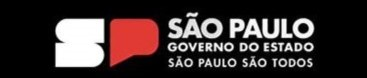
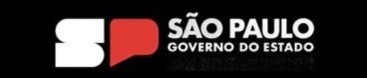
...

Changed region(s): [[0.4496, 0.7179, 0.8692, 0.8718]]

diff --git a/ferramentas/maps.html b/ferramentas/maps.html
@@ -13,7 +13,7 @@
     <header>
         <div style="height: 200%; display: flex; align-items: center; justify-content: space-between; flex-wrap: wrap;"
             aria-label="Logo de São Paulo">
-            <img src="..\Assets\baixados.jpg" alt="logo do estado de São Paulo" class="Logo" style="width: 30%;">
+            <img src="..\Assets\baixados.jpg" alt="logo do estado de São Paulo" class="Logo" style="width: 25%;">
         </div>
         <div style="display: flex; justify-content: center;" aria-label="E.M.T.U"><img
                 style="border: none; margin: 10px;" src="..\Assets\emtu-logo.png" alt="logo da E.M.T.U" class="Logo">
@@ -28,12 +28,17 @@
         </div>
         </div>
     </header>
+
+    <div style="cursor: pointer; display: flex; position: fixed; right: 0%; top: 50%;padding: 5px; margin: 10px; background-color: rgb(0, 97, 165); border-radius: 10px; z-index: 100; border: none; background: linear-gradient(to top right, rgb(199, 210, 222), rgb(0, 97, 165));"><svg xmlns="http://www.w3.org/2000/svg" width="36" height="32" viewBox="0 0 576 512"><path fill="white" d="m544 160l-.1 72.6c-.1 52.2-24 101-64 133.1c.1-1.9.1-3.8.1-5.7v-8c0-71.8-37-138.6-97.9-176.7l-60.2-37.6c-8.6-5.4-17.9-8.4-27.3-9.4l-45.9-79.5c-6.6-11.5-2.7-26.2 8.8-32.8s26.2-2.7 32.8 8.8l78 135.1c3.3 5.7 10.7 7.7 16.4 4.4s7.7-10.7 4.4-16.4l-62-107.4c-6.6-11.5-2.7-26.2 8.8-32.8S362 5 368.6 16.5l68 117.8l43.3 75l.1-49.3c0-17.7 14.4-32 32-32s32 14.4 32 32M243.9 88.5l24.6 42.5c-13.9 4.5-26.4 13.7-34.7 27c-.9 1.4-1.7 2.9-2.5 4.4l-28.9-50c-6.6-11.5-2.7-26.2 8.8-32.8s26.2-2.7 32.8 8.8zm-46.4 63.7l26.8 46.4c.6 6 2.1 11.8 4.3 17.4H179l-23-39.8c-6.6-11.5-2.7-26.2 8.8-32.8s26.2-2.7 32.8 8.8zm63.4 22.8c9.4-15 29.1-19.5 44.1-10.2l60.2 37.6C416.7 234.7 448 291.2 448 352v8c0 83.9-68.1 152-152 152H120c-13.3 0-24-10.7-24-24s10.7-24 24-24h92c6.6 0 12-5.4 12-12s-5.4-12-12-12H88c-13.3 0-24-10.7-24-24s10.7-24 24-24h124c6.6 0 12-5.4 12-12s-5.4-12-12-12H56c-13.3 0-24-10.7-24-24s10.7-24 24-24h156c6.6 0 12-5.4 12-12s-5.4-12-12-12H88c-13.3 0-24-10.7-24-24s10.7-24 24-24h229.2L271 219.1c-15-9.4-19.5-29.1-10.2-44.1z"/></svg></div>
+
     <div style="justify-content: center; display: flex; flex-direction: column; padding: 10px 15px;">
 
         <div style="display: flex; height: 200px;">
-            <button class="next" aria-label="anterior">&lt;</button>
+            
+            <button class="next" aria-label="anterior"><svg xmlns="http://www.w3.org/2000/svg" width="18" height="32" viewBox="0 0 9 16"><path fill="white" d="m1.38 7.18l4.83-4.15c.7-.6 1.79-.1 1.79.82v8.29c0 .93-1.09 1.42-1.79.82L1.38 8.82c-.5-.43-.5-1.21 0-1.64"/></svg></button>
             <div style="width: 100%;"></div>
-            <button class="next" aria-label="próximo">&gt;</button>
+            <button class="next" aria-label="próximo"><svg xmlns="http://www.w3.org/2000/svg" width="18" height="32" viewBox="0 0 9 16"><path fill="white" d="M7.62 7.18L2.79 3.03c-.7-.6-1.79-.1-1.79.82v8.29c0 .93 1.09 1.42 1.79.82l4.83-4.14c.5-.43.5-1.21 0-1.64"/></svg></button>
+
         </div>
 
         <div id="search"
@@ -85,7 +90,7 @@
             <div style="display: flex; flex-direction: row;">
                 <div style="display: flex; width: 100%; flex-wrap: wrap;">
                     <select name="linha" id="imageSelector" onchange="changeImage()"
-                        style="height: 25px; justify-self: right; width: 30%;">
+                        style="height: 25px; justify-self: right; width: 30%; border-radius: 5px;">
                         <option
                             value="https://www.google.com/maps/d/u/0/embed?mid=1T5g7Uz8AfBe5P65qFLAo5pEMC34Ti-0&ehbc=2E312F&noprof=1">
                             Mapa Geral</option>
@@ -108,7 +113,7 @@
                         <iframe
                             src="https://www.google.com/maps/d/u/0/embed?mid=1T5g7Uz8AfBe5P65qFLAo5pEMC34Ti-0&ehbc=2E312F&noprof=1"
                             id="displayImage"
-                            style="border: 0; position: relative; top: -50px; left: 0; width: 100%; height: 600px;">
+                            style="border: none; position: relative; top: -50px; left: 0; width: 100%; height: 600px;;">
                         </iframe>
                     </div>
                 </div>
@@ -140,7 +145,7 @@
                         <td>[...]</td>
                         <td>[...]</td>
                     </tr>
-                    <!-- Continue com as linhas restantes -->
+
                 </tbody>
             </table>
         </div>
@@ -148,18 +153,42 @@
         </div>
 
         <footer>
-            <div style="height: 40px; justify-content: right; display: flex; background-color: red;">
-                
+
+            <div style="display: flex; padding: 5px; flex-wrap: wrap; padding-right: 100px;">
+                <p class="footerText">Home</p>
+                <p class="footerText">Institucional</p>
+                <p class="footerText">Itinerários e Tarifas</p>
+                <p class="footerText">Redes de Transporte</p>
+                <p class="footerText">Bilhetes e Cartões</p>
+                <p class="footerText">Serviços</p>
+                <p class="footerText">Licitações</p>
+                <p class="footerText">Imprensa</p>
+                <p class="footerText">Parceiros</p>
+                <p class="footerText">Legislação</p>
+                <p class="footerText">Ouvidoria EMTU</p>
+                <p class="footerText">Fale Conosco</p>
+                <p class="footerText">Código de Conduta e Integridade</p>
+                <p class="footerText">Canal de Denúncia</p>
+                <p class="footerText">Serviço de Informação ao Cidadão</p>
+                <p class="footerText">Audiências Públicas</p>
+                <p class="footerText">LGPD</p>
+                <p class="footerText">Intranet</p>
             </div>
 
-            <div style="display: flex; justify-content: space-evenly; padding: 10px;">
-                <button class="footerbtn"></button>
-                <button class="footerbtn"></button>
-                <button class="footerbtn"></button>
+            <div style="height: 45px; justify-content: space-evenly; display: flex; background-color: red; align-items: end; padding-bottom: 3px;">
+                <div style="border:none; display: flex; flex-direction: row; align-items: center;"><svg xmlns="http://www.w3.org/2000/svg" width="16" height="16" viewBox="0 0 16 16"><path fill="white" d="M5.026 15c6.038 0 9.341-5.003 9.341-9.334q.002-.211-.006-.422A6.7 6.7 0 0 0 16 3.542a6.7 6.7 0 0 1-1.889.518a3.3 3.3 0 0 0 1.447-1.817a6.5 6.5 0 0 1-2.087.793A3.286 3.286 0 0 0 7.875 6.03a9.32 9.32 0 0 1-6.767-3.429a3.29 3.29 0 0 0 1.018 4.382A3.3 3.3 0 0 1 .64 6.575v.045a3.29 3.29 0 0 0 2.632 3.218a3.2 3.2 0 0 1-.865.115a3 3 0 0 1-.614-.057a3.28 3.28 0 0 0 3.067 2.277A6.6 6.6 0 0 1 .78 13.58a6 6 0 0 1-.78-.045A9.34 9.34 0 0 0 5.026 15"/></svg><p style="color: white; font-weight: 500;">emtu_oficial</p></div>
+                <div style="border:none; display: flex; flex-direction: row; align-items: center;"><svg xmlns="http://www.w3.org/2000/svg" width="16" height="16" viewBox="0 0 16 16"><path fill="white" d="M8 5.67C6.71 5.67 5.67 6.72 5.67 8S6.72 10.33 8 10.33S10.33 9.28 10.33 8S9.28 5.67 8 5.67M15 8c0-.97 0-1.92-.05-2.89c-.05-1.12-.31-2.12-1.13-2.93c-.82-.82-1.81-1.08-2.93-1.13C9.92 1 8.97 1 8 1s-1.92 0-2.89.05c-1.12.05-2.12.31-2.93 1.13C1.36 3 1.1 3.99 1.05 5.11C1 6.08 1 7.03 1 8s0 1.92.05 2.89c.05 1.12.31 2.12 1.13 2.93c.82.82 1.81 1.08 2.93 1.13C6.08 15 7.03 15 8 15s1.92 0 2.89-.05c1.12-.05 2.12-.31 2.93-1.13c.82-.82 1.08-1.81 1.13-2.93c.06-.96.05-1.92.05-2.89m-7 3.59c-1.99 0-3.59-1.6-3.59-3.59S6.01 4.41 8 4.41s3.59 1.6 3.59 3.59s-1.6 3.59-3.59 3.59m3.74-6.49c-.46 0-.84-.37-.84-.84s.37-.84.84-.84s.84.37.84.84a.8.8 0 0 1-.24.59a.8.8 0 0 1-.59.24Z"/></svg><p style="color: white; font-weight: 500;">emtu.oficial</p></div>
+                <div style="border:none; display: flex; flex-direction: row; align-items: center;"><svg xmlns="http://www.w3.org/2000/svg" width="18.29" height="16" viewBox="0 0 16 14"><path fill="white" d="M8 1.5c-6.88 0-7 .62-7 5.5s.12 5.5 7 5.5s7-.62 7-5.5s-.12-5.5-7-5.5m2.24 5.74L7.1 8.74c-.28.13-.5-.02-.5-.33V5.59c0-.31.23-.46.5-.33l3.14 1.5c.28.13.28.35 0 .48"/></svg><p style="color: white; font-weight: 500;">emtu.oficial</p></div>
             </div>
 
-            <div style="background-color: rgb(37, 37, 86); height: 170px;">
-                <div style="border: 1px solid white; height: 40px;"></div>
+            <div style="display: flex; justify-content: space-evenly; padding: 10px; flex-wrap: wrap;">
+                <button class="footerbtn">Ouvidoria</button>
+                <button class="footerbtn">Transparência</button>
+                <button class="footerbtn">SIC</button>
+            </div>
+
+            <div style="background-color: black; height: 160px; display: flex; align-items: center; justify-content: center;">
+                <div><img src="..\Assets\baixados.jpg" alt="logo estado de são paulo" style="width: 75%;  margin-left: 15%;"></div>
             </div>
         </footer>
         
@@ -170,13 +199,11 @@
                 const image = document.getElementById('displayImage');
                 image.src = selector.value;
 
-                // Atualiza a URL com o valor selecionado
                 const url = new URL(window.location);
-                url.searchParams.set('map', selector.value);  // Adiciona/atualiza o parâmetro "map"
-                window.history.pushState({}, '', url);  // Atualiza a URL sem recarregar a página
+                url.searchParams.set('map', selector.value);  
+                window.history.pushState({}, '', url);  
             }
 
-            // Função para carregar a configuração inicial a partir da URL
             function loadMapFromURL() {
                 const urlParams = new URLSearchParams(window.location.search);
                 const mapParam = urlParams.get('map');
@@ -185,11 +212,10 @@
                     const selector = document.getElementById('imageSelector');
                     selector.value = mapParam;
                     const image = document.getElementById('displayImage');
-                    image.src = mapParam;  // Carrega o mapa selecionado da URL
+                    image.src = mapParam; 
                 }
             }
 
-            // Carregar o mapa ao carregar a página
             window.onload = loadMapFromURL;
         </script>
 

diff --git a/style.css b/style.css
@@ -23,6 +23,7 @@ body, html{
     font-weight: bolder;
     color: white;
     border: none;
+    cursor: pointer;
 }
 
 svg{
@@ -56,6 +57,7 @@ h6{
     color: transparent;
     font-size: 30px;
     font-weight: bolder;
+    
 }
 
 .next:hover{
@@ -77,11 +79,12 @@ h6{
 .cards{
     text-justify: center;
     width: 25%;
-    height: 40%;
+    height: 70px;
     padding: 15px;
     margin: 10px 0;
-        
-
+    border: none;
+    border-radius: 10px;
+    background-color: rgb(0, 97, 165);
 }
 
 .cards:hover{
@@ -89,24 +92,45 @@ h6{
 }
 
 .footerbtn{
-    height: 30px;
+    height: 35px;
     background-color: rgb(37, 37, 86);
     border-radius: 50px;
-    width: 25%;
+    width: 200px;
     margin: 5px;
+    color: white;
+    font-size: 100%;
 }
 
 .footerbtn:hover{
     background-color: rgba(37, 37, 86, 0.8);
+    cursor: pointer;
 }
 
 .Logo{
     display: flex;
     position: relative;
-    width: 15%;
+    width: 12%;
     margin: 0;
 }
 
 svg{
     margin: 2px;
+}
+
+p{
+    border: none;
+}
+
+.footerText{
+    display: flex;
+    flex-direction: row;
+    margin: 5px 35px 5px 5px;
+    font-size: 12px;
+    font-weight: bolder;
+    color: #111;
+}
+
+.footerText:hover{
+    border: 2px solid red;
+    cursor: pointer;
 }
